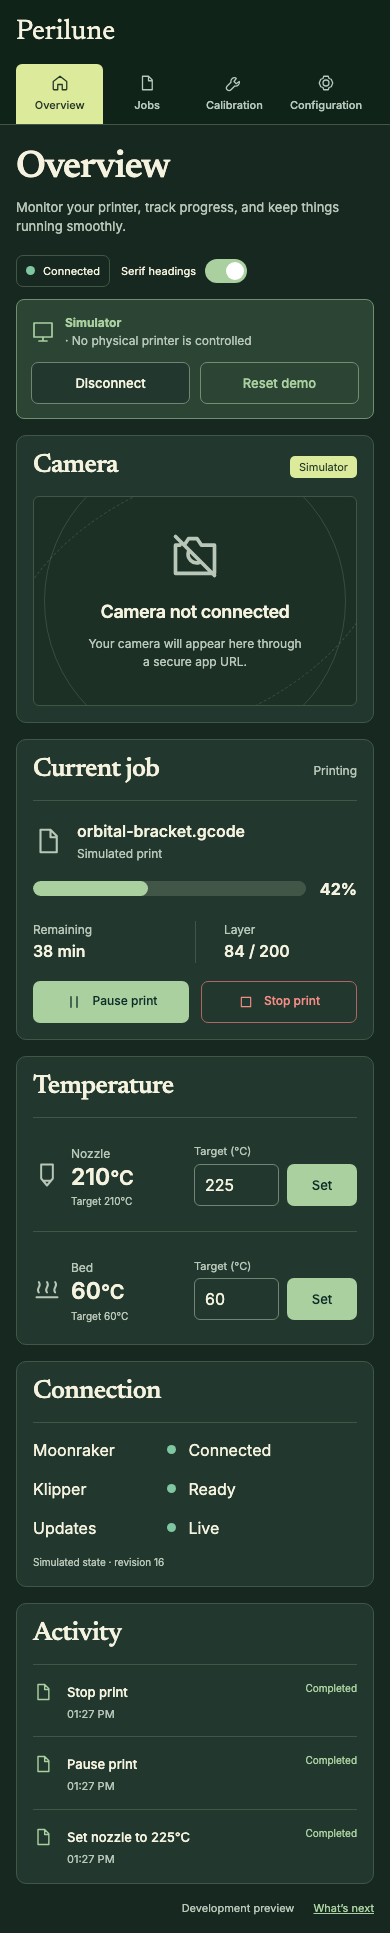
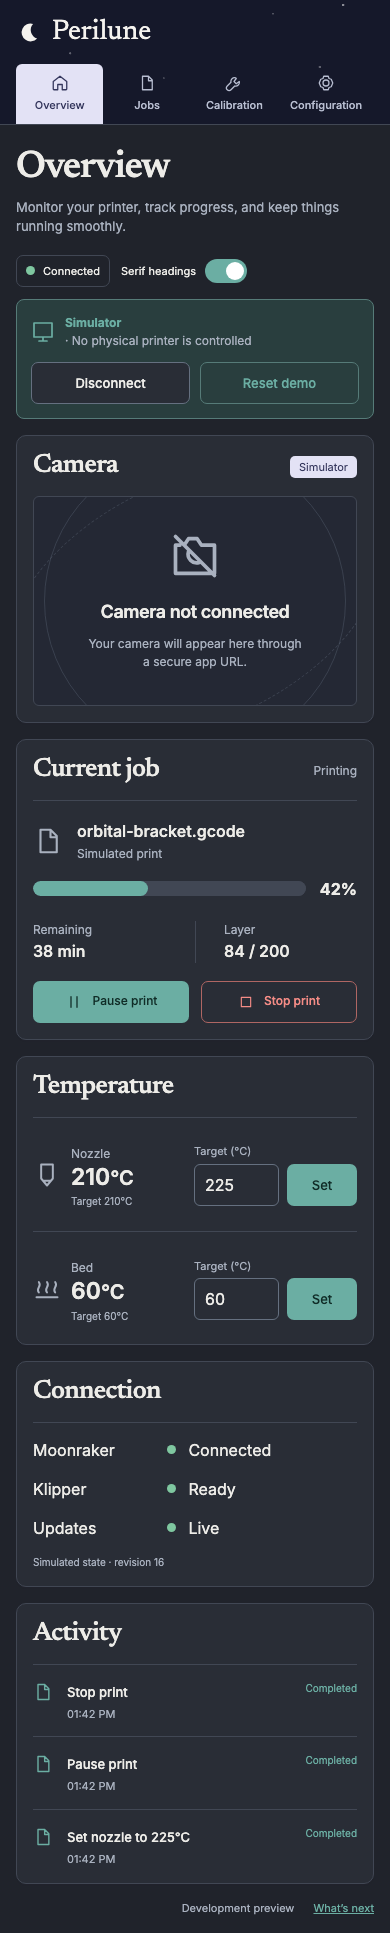
style: restore teal palette and add lunar identity

diff --git a/src/lib/styles.css b/src/lib/styles.css
@@ -87,6 +87,8 @@ small {
 	min-height: 100vh;
 }
 .sidebar {
+	position: relative;
+	isolation: isolate;
 	background: var(--rail);
 	color: var(--rail-text);
 	padding: 26px 14px;
@@ -95,7 +97,32 @@ small {
 	flex-direction: column;
 	gap: 34px;
 }
+/* Sparse, static stars live only in the navigation rail, away from printer data. */
+.sidebar::before {
+	content: '';
+	position: absolute;
+	inset: 0;
+	z-index: -1;
+	pointer-events: none;
+	background-image:
+		radial-gradient(circle at 88% 4%, #ffffff80 1px, transparent 1.5px),
+		radial-gradient(circle at 70% 11%, #ffffff40 0.7px, transparent 1.2px),
+		radial-gradient(circle at 18% 43%, #ffffff50 0.8px, transparent 1.4px),
+		radial-gradient(circle at 82% 54%, #ffffff50 1px, transparent 1.5px),
+		radial-gradient(circle at 42% 63%, #ffffff30 0.7px, transparent 1.2px),
+		radial-gradient(circle at 14% 76%, #ffffff70 1px, transparent 1.5px),
+		radial-gradient(circle at 67% 84%, #ffffff50 0.8px, transparent 1.4px);
+}
+.brand-mark {
+	width: 26px;
+	height: 26px;
+	flex-shrink: 0;
+}
+
 .brand {
+	display: flex;
+	align-items: center;
+	gap: 10px;
 	color: var(--rail-text);
 	text-decoration: none;
 	font-size: 32px;
@@ -283,7 +310,7 @@ small {
 	gap: 16px;
 }
 .panel {
-	box-shadow: 0 2px 0 #203b3308;
+	box-shadow: 0 2px 0 #20243808;
 	background: var(--surface);
 	border: 1px solid var(--border);
 	border-radius: 10px;
@@ -810,18 +837,18 @@ progress::-moz-progress-bar {
 }
 @media (prefers-color-scheme: dark) {
 	:root {
-		--rail: #102319;
-		--canvas: #172820;
-		--surface: #22382e;
-		--text: #f5f3df;
-		--muted: #b9c7b9;
-		--border: #425647;
-		--border-strong: #708575;
-		--camera: #1c3026;
-		--accent: #aad0a0;
-		--accent-hover: #91bc84;
-		--accent-soft: #2c4434;
-		--accent-border: #708f70;
+		--rail: #15182a;
+		--canvas: #20232b;
+		--surface: #292d36;
+		--text: #edece8;
+		--muted: #a9b1bf;
+		--border: #414754;
+		--border-strong: #657080;
+		--camera: #242834;
+		--accent: #6baea3;
+		--accent-hover: #83c1b6;
+		--accent-soft: #293e3e;
+		--accent-border: #567b78;
 		--success: #7fc7a0;
 		--danger: #f48c86;
 		--danger-border: #af6663;

diff --git a/src/lib/tokens.css b/src/lib/tokens.css
@@ -1,23 +1,23 @@
 :root {
-	--canvas: #f4f0e7;
-	--surface: #fffdf8;
-	--text: #202d29;
-	--muted: #626f68;
-	--border: #d3d4c8;
-	--border-strong: #a9b4aa;
-	--camera: #eceee4;
-	--accent: #226c59;
-	--accent-hover: #164f40;
-	--accent-soft: #e1ecdf;
-	--accent-border: #9fbca4;
-	--rail: #203b33;
-	--rail-text: #f5f3df;
-	--rail-muted: #b8c9bc;
-	--highlight: #dcea9c;
-	--highlight-text: #253728;
-	--success: #14835a;
-	--danger: #b03434;
-	--danger-border: #d8897d;
-	--warning: #986519;
-	--warning-soft: #f3e8cb;
+	--canvas: #f5f3ef;
+	--surface: #faf9f7;
+	--text: #242728;
+	--muted: #687078;
+	--border: #d9dadd;
+	--border-strong: #b5bdc3;
+	--camera: #ecebe8;
+	--accent: #36756e;
+	--accent-hover: #29645c;
+	--accent-soft: #e5eeeb;
+	--accent-border: #adc9c3;
+	--rail: #202438;
+	--rail-text: #f5f3ef;
+	--rail-muted: #b8bed1;
+	--highlight: #e3e2f5;
+	--highlight-text: #34365c;
+	--success: #16875e;
+	--danger: #bc3837;
+	--danger-border: #df8883;
+	--warning: #a26c19;
+	--warning-soft: #f6eddc;
 }

diff --git a/src/lib/components/AppShell.svelte b/src/lib/components/AppShell.svelte
@@ -12,7 +12,12 @@
 
 <div class="app-shell">
 	<aside class="sidebar">
-		<a class="brand" href="/">Perilune</a>
+		<a class="brand" href="/">
+			<svg class="brand-mark" viewBox="0 0 32 32" fill="currentColor" aria-hidden="true"
+				><path d="M21 6a11 11 0 1 0 5 18A11 11 0 0 1 21 6" /></svg
+			>
+			<span>Perilune</span>
+		</a>
 		<nav aria-label="Main navigation">
 			{#each navigation as item}<a
 					href={item.href}

diff --git a/docs/design/README.md b/docs/design/README.md
@@ -46,8 +46,10 @@ Comparison ledger:
 | Copy       | Main overview, camera, job, heater, and connection labels retained; simulator/history/roadmap deviations listed above. |
 
 The initial concept established the structure. Following user feedback, the next
-iteration extends serif typography to section headings and adds a deep green rail,
-lime selections, stronger borders, warmer surfaces, and subtle orbital linework.
+iteration extends serif typography to section headings and keeps orbital linework.
+After the all-green palette was rejected, the original warm neutrals and teal were
+restored. A midnight-blue rail, sparse static stars, a crescent brand mark, and pale
+lavender selections add lunar identity without tinting the printer workspace.
 These are intentional refinements to the accepted direction. The screenshots above
 show the current implementation, while `overview-concept.png` preserves the initial
 reference. T3 preview and production captures were checked for desktop/mobile

diff --git a/AGENTS.md b/AGENTS.md
@@ -21,5 +21,7 @@
   correctness, regressions, tests, and deployment assumptions; resolve actionable
   findings and record the review result in the PR. Small cosmetic edits need not
   trigger a separate review.
-- Visual direction: serif headings are chosen. Preserve warm surfaces and teal,
-  with a contrasting dark rail and restrained lime accents.
+- Visual direction: serif headings are chosen. Preserve the original warm neutrals and teal.
+  Lunar identity comes from a midnight-blue rail, subtle static stars, a crescent
+  mark, pale lavender accents, and the camera orbit. Avoid tinting the entire UI
+  green or replacing the established palette with a single hue.
